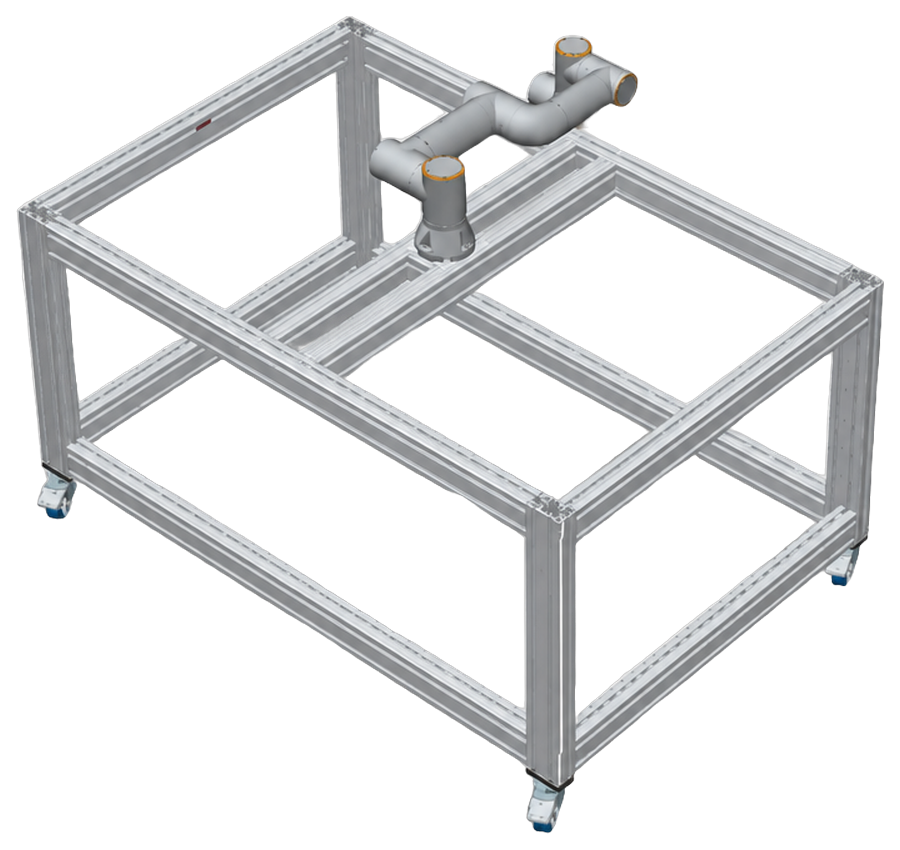
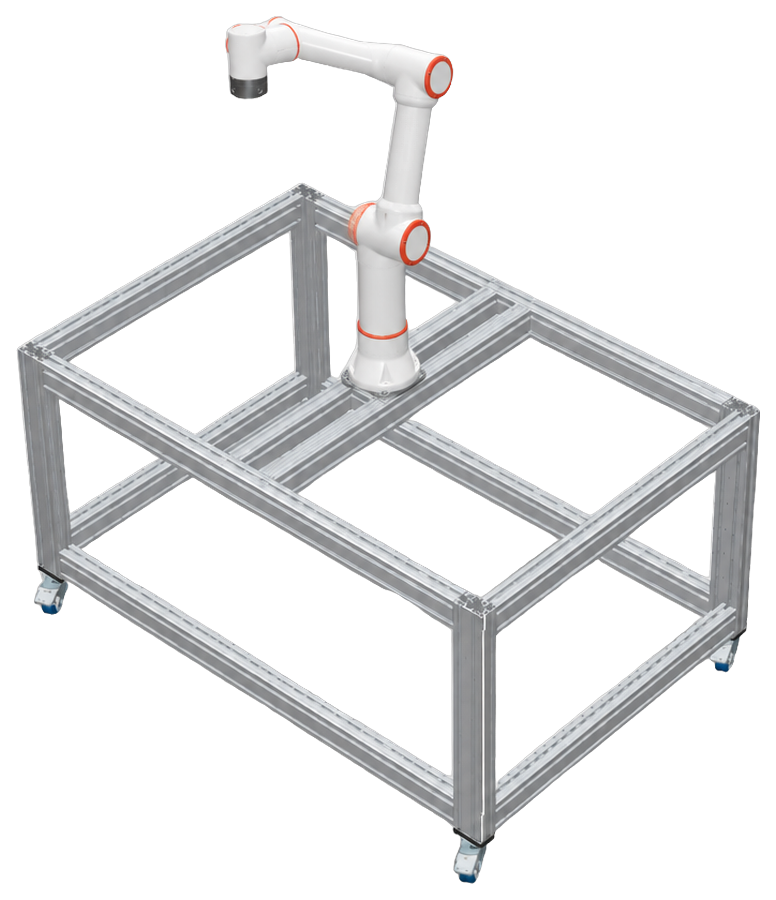
Mesa de trabajo modular: con el cobot FAIRINO blanco
El brazo gris del render se cambia por el cobot FAIRINO blanco de aros
naranjas, como en el resto de la web, en el recorte de la tarjeta y en
las tres escenas.

Claude-Session: https://claude.ai/code/session_01E5KqVUeF4FGCAKMQhHRijH

diff --git a/assets-src/fabricantes/LEEME.md b/assets-src/fabricantes/LEEME.md
@@ -245,3 +245,7 @@ Renders de FAIRINO España con una figura humana (`fairino-espana/mesa-trabajo-*
 - recorte de la iso B (image_background_remover) `5af556a8-31ad-4fc7-8bf7-17e7595b8166` → `mesa-trabajo-modular-oficial.png`;
 - escenas ilustrativas: rayos `3f0de93b-aca6-4a5a-a372-73169b2a7b0c`, foco `cda5d976-739a-4cff-954d-4a74782cfd49`,
   fábrica `05c8811b-b7d1-4c57-8782-d9f6b804cb42`.
+- Con el cobot FAIRINO blanco (referencia `fr5-provisional-3d.png`, media `1de5e082-ca61-4df7-8a1e-cf39b45050cb`), que es
+  lo que se usa en la web: estudio `db1b1d56-f93f-445f-8925-428405fc26a7` → recorte `c6f1268b-e3a5-4247-a730-cb45a7d49436`,
+  rayos `10e530f9-b055-4521-b227-aba9693113cd`, foco `6595a253-69ba-4c4c-b19f-078d396227de`,
+  fábrica `220b01bd-f73f-43e8-8ebf-e8f2d6ae62ee`.
